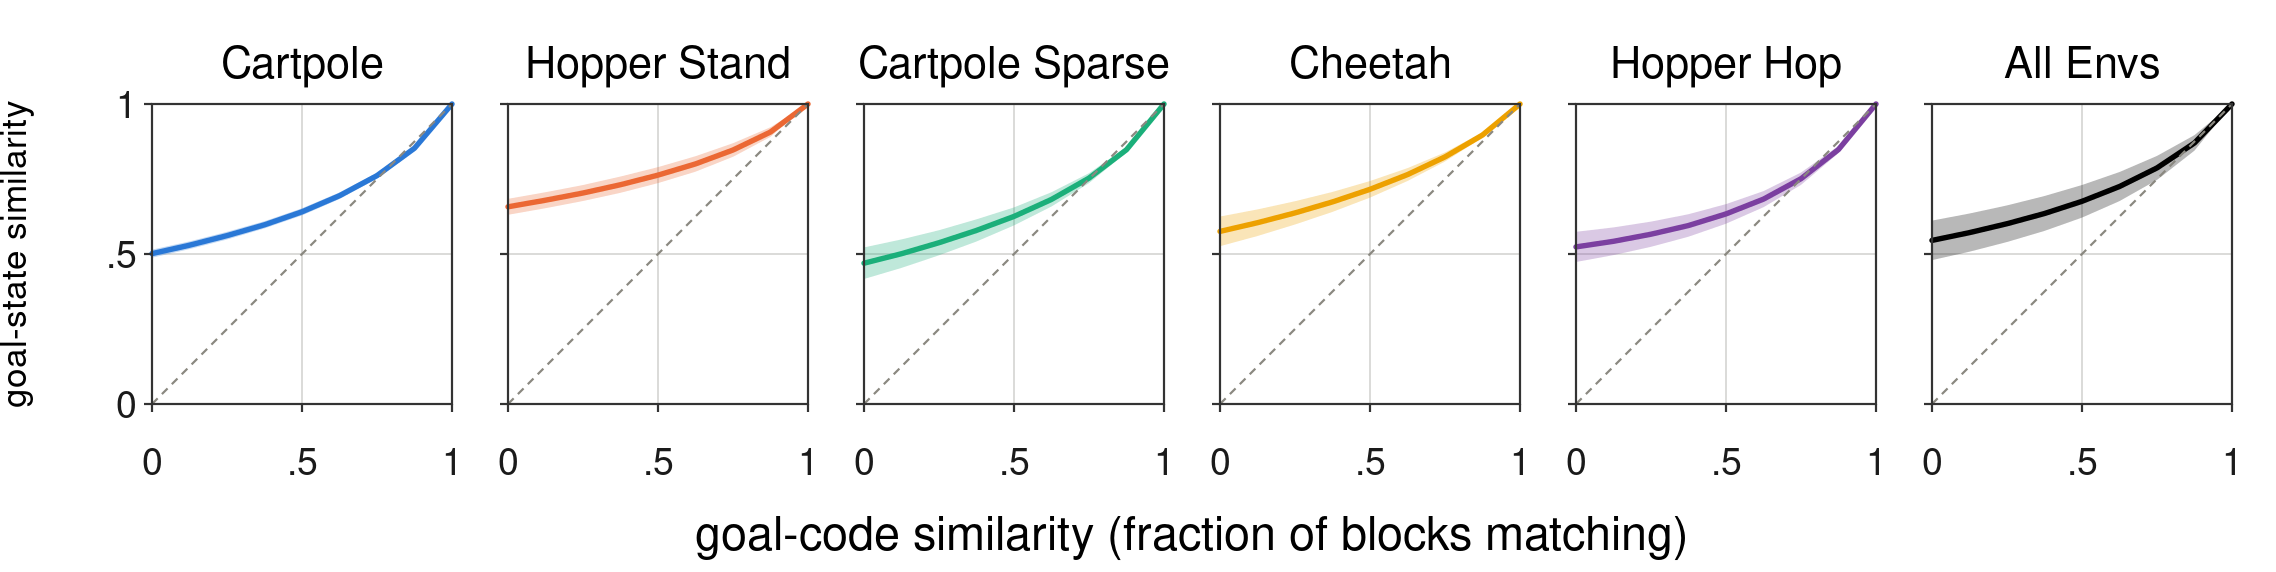
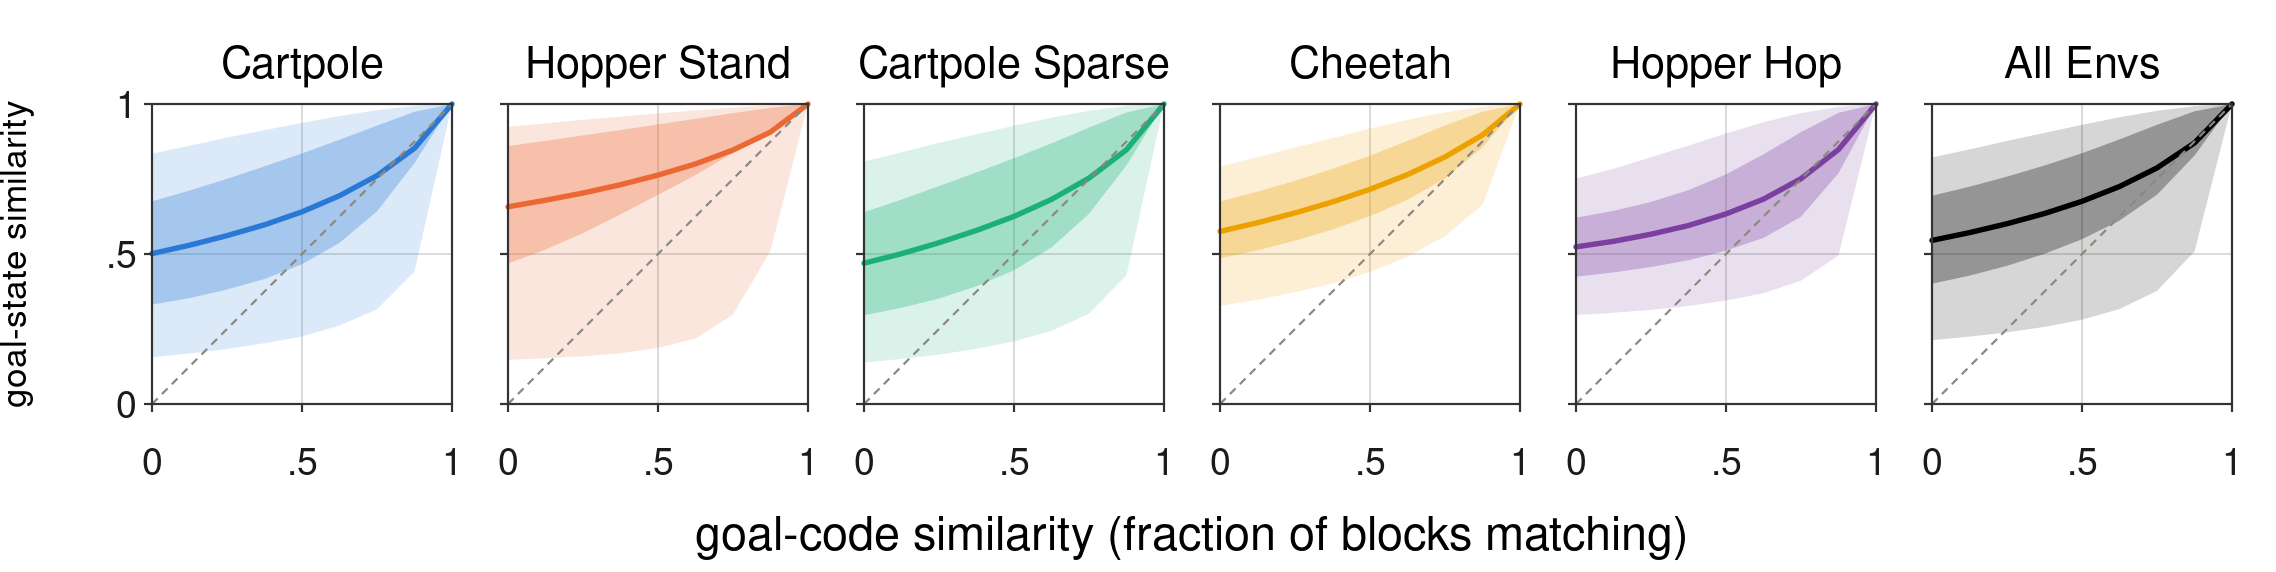
Verify the trained activation against the checkpoint, not the config
which_activation.py recomputes a trained goal decoder's forward pass by hand
from the checkpoint weights, once per candidate activation, and compares each
against what the real decoder returns. The config is evidence that a key was
set; this is evidence the code read it.

Two traps it had to avoid: Adam moments live under opt/state_goal/{1,2}/ with
the same leaf names as the weights (an unfiltered match reports a 4-layer trunk
as 12 layers -- the same mistake that once inflated a Lipschitz bound to
1.3e18), and the codebook parameter is named `table`, not `embed`.

Also rebuilds the SOM+LiP block-axis figure with the pair-spread bands. Its
floors are markedly lower than Director's: 0.47-0.66 against 0.64-0.84, with p5
at 0.14-0.33 against 0.28-0.53.

Claude-Session: https://claude.ai/code/session_01UoFNqat22AbqJsV7sCUJhH

Changed region(s): [[0.0624, 0.1783, 0.6863, 0.6538], [0.6863, 0.1783, 0.9982, 0.5944]]

diff --git a/experiments/goal_geometry/which_activation.py b/experiments/goal_geometry/which_activation.py
@@ -1,0 +1,181 @@
+#!/usr/bin/env python3
+"""Which activation did a TRAINED goal autoencoder actually use?
+
+The saved config is evidence, not proof: a config key only matters if the code
+reads it. This decides the question against the trained artifact itself.
+
+The trunk is ``layers x [Linear -> Norm -> act]`` followed by an output Linear
+(``lipschitz.LipMLP``). With ``norm='none'`` on the LiP arms there is nothing
+between the linear map and the activation, so the whole forward pass can be
+recomputed by hand from the checkpoint's weights. Do that twice, once assuming
+silu and once assuming relu, and compare both against what the real decoder
+returns for the same input. Exactly one should match to f32 round-off.
+
+Also reports the consequence: the per-layer product bound
+``prod_l softplus(c_l)`` is a Lipschitz bound only when the activations are
+1-Lipschitz. relu is; silu's slope peaks at ~1.0998, so with silu the true
+constant can exceed the reported product by 1.0998 per activation.
+
+  python -u which_activation.py --run_dir /work/.../e534_...
+"""
+import argparse
+import pathlib
+import sys
+
+root = pathlib.Path(__file__).resolve().parent.parent.parent
+sys.path.insert(0, str(root))
+sys.path.insert(0, str(pathlib.Path(__file__).resolve().parent.parent /
+                      'goal_code_struct_corr'))
+
+import numpy as np
+
+from diag_goal_geometry import build, make_fns
+
+
+def silu(x):
+    return x / (1.0 + np.exp(-x))
+
+
+def relu(x):
+    return np.maximum(x, 0.0)
+
+
+ACTS = {'silu': silu, 'relu': relu, 'tanh': np.tanh, 'gelu':
+        lambda x: 0.5 * x * (1 + np.tanh(np.sqrt(2 / np.pi) *
+                                         (x + 0.044715 * x ** 3)))}
+# max |d act / dx|, i.e. the activation's own Lipschitz constant
+LIP = {'silu': 1.0998, 'relu': 1.0, 'tanh': 1.0, 'gelu': 1.1289}
+
+
+def main():
+    p = argparse.ArgumentParser()
+    p.add_argument('--run_dir', required=True)
+    p.add_argument('--n', type=int, default=64)
+    a = p.parse_args()
+
+    config, agent = build(a.run_dir)
+    impl, encode, decode = make_fns(config, agent)
+    name = pathlib.Path(str(a.run_dir).rstrip('/')).name
+    L, C = [int(x) for x in config.agent.skill_shape]
+    cfg_act = str(config.agent.goal_vq_dec.act)
+    cfg_norm = str(config.agent.goal_vq_dec.norm)
+    print(f'=== {name}')
+    print(f'    impl={impl}  config says act={cfg_act}  norm={cfg_norm}')
+    assert impl == 'vq', 'this check targets the VQ/LiP decoder'
+    assert cfg_norm == 'none', (
+        f'norm={cfg_norm}: the hand recomputation below assumes nothing sits '
+        'between the linear map and the activation')
+
+    # --- pull the decoder trunk's weights out of the checkpoint -------------
+    # Adam moments live under opt/state_goal/{1,2}/... with the SAME leaf
+    # names as the weights, so an unfiltered match returns three copies of
+    # every layer -- the mistake that once turned a 5-layer decoder into a
+    # 15-layer one and its bound into 1.3e18.
+    P = {k: np.asarray(v, np.float64) for k, v in agent.params.items()
+         if 'goal_dec' in k and not k.startswith('opt/') and '/opt/' not in k}
+    trunk = sorted({k.rsplit('/', 1)[0] for k in P if '/mlp/' in k},
+                   key=lambda s: (len(s), s))
+    print(f'    trunk layers found: {len(trunk)}')
+    for t in trunk:
+        print(f'      {t}  kernel={P[t + "/kernel"].shape}')
+
+    # --- the real decoder's output for a fixed random code ------------------
+    rng = np.random.default_rng(0)
+    ids = rng.integers(0, C, size=(a.n, L))
+    onehot = np.eye(C, dtype=np.float32)[ids]
+    real = np.asarray(decode(onehot), np.float64)
+
+    # --- the codebook lookup that feeds the trunk ---------------------------
+    cb = [k for k in P if 'codebook' in k
+          and k.rsplit('/', 1)[-1] in ('table', 'embed')]
+    assert cb, f'no codebook embedding among {sorted(P)}'
+    table = P[cb[0]]                       # (blocks, classes, dim)
+    x = np.einsum('nlc,lcd->nld', onehot.astype(np.float64), table)
+    x = x.reshape(a.n, -1)
+
+    def lip_kernel(base):
+        """Apply the row-wise Lipschitz normalization if this layer has a c."""
+        k = P[base + '/kernel']
+        cs = [n for n in (base + '/c', base + '/lip_c') if n in P]
+        if not cs:
+            return k
+        c = P[cs[0]]
+        bound = np.log1p(np.exp(-np.abs(c))) + np.maximum(c, 0.0)  # softplus
+        ratio = bound / (np.abs(k).sum(0) + 1e-12)
+        return k * np.minimum(1.0, ratio)[None, :]
+
+    def forward(act_fn, cast=lambda h: h):
+        h = cast(x)
+        for base in trunk:
+            h = cast(cast(h) @ cast(lip_kernel(base)))
+            if base + '/bias' in P:
+                h = cast(h + P[base + '/bias'])
+            h = cast(act_fn(h))
+        out = [k for k in P if '/out/' in k and k.endswith('kernel')]
+        h = cast(cast(h) @ cast(lip_kernel(out[0].rsplit('/', 1)[0])))
+        bk = out[0].rsplit('/', 1)[0] + '/bias'
+        if bk in P:
+            h = cast(h + P[bk])
+        return np.asarray(h, np.float64)
+
+    # The real trunk computes in nets.COMPUTE_DTYPE (bfloat16), which carries
+    # 8 mantissa bits ~ 4e-3 relative precision per operation. Recomputing in
+    # float64 therefore cannot match better than a few percent however correct
+    # the activation is, so run it both ways: float64 identifies the activation
+    # by a wide margin, bfloat16 confirms the residual was only precision.
+    import ml_dtypes
+    bf16 = ml_dtypes.bfloat16
+
+    print()
+    print('    hand-recomputed forward pass vs the real decoder:')
+    scale = np.abs(real).mean()
+    best, bestrel = None, np.inf
+    print('      %-6s %12s %12s' % ('act', 'float64', 'bfloat16'))
+    for label, fn in ACTS.items():
+        try:
+            rel = np.abs(forward(fn) - real).max() / max(scale, 1e-12)
+            relb = np.abs(forward(fn, cast=lambda h: h.astype(bf16).astype(
+                np.float64)) - real).max() / max(scale, 1e-12)
+        except Exception as e:                       # shape mismatch etc.
+            print(f'      {label:6s} FAILED ({type(e).__name__}: {e})')
+            continue
+        print('      %-6s %12.3e %12.3e' % (label, rel, relb))
+        if relb < bestrel:
+            best, bestrel = label, relb
+
+    print()
+    if bestrel < 1e-2:
+        print(f'    VERDICT: the trained network uses {best.upper()} '
+              f'(match {bestrel:.2e}; config said {cfg_act})')
+        agree = 'agrees with' if best == cfg_act else 'CONTRADICTS'
+        print(f'             this {agree} the saved config')
+    else:
+        print(f'    INCONCLUSIVE: closest was {best} at {bestrel:.2e}; the '
+              'hand recomputation does not reproduce the trunk')
+        return 1
+
+    # --- what it costs the Lipschitz claim ---------------------------------
+    cs = [k for k in P if k.endswith('/c') or k.endswith('/lip_c')]
+    if cs:
+        bounds = []
+        for k in sorted(cs):
+            c = P[k]
+            b = np.log1p(np.exp(-np.abs(c))) + np.maximum(c, 0.0)
+            bounds.append(float(np.max(b)))
+        prod = float(np.prod(bounds))
+        n_act = len(trunk)
+        infl = LIP[best] ** n_act
+        print()
+        print(f'    constrained layers: {len(bounds)}, product of bounds = '
+              f'{prod:.4g}')
+        print(f'    activations in the trunk: {n_act} x {best} '
+              f'(Lipschitz {LIP[best]})')
+        print(f'    product bound is exact only for a 1-Lipschitz activation.')
+        print(f'    true bound <= product x {LIP[best]}^{n_act} = '
+              f'{prod * infl:.4g}  ({100 * (infl - 1):.1f}% above the reported '
+              f'product)')
+    return 0
+
+
+if __name__ == '__main__':
+    raise SystemExit(main())
